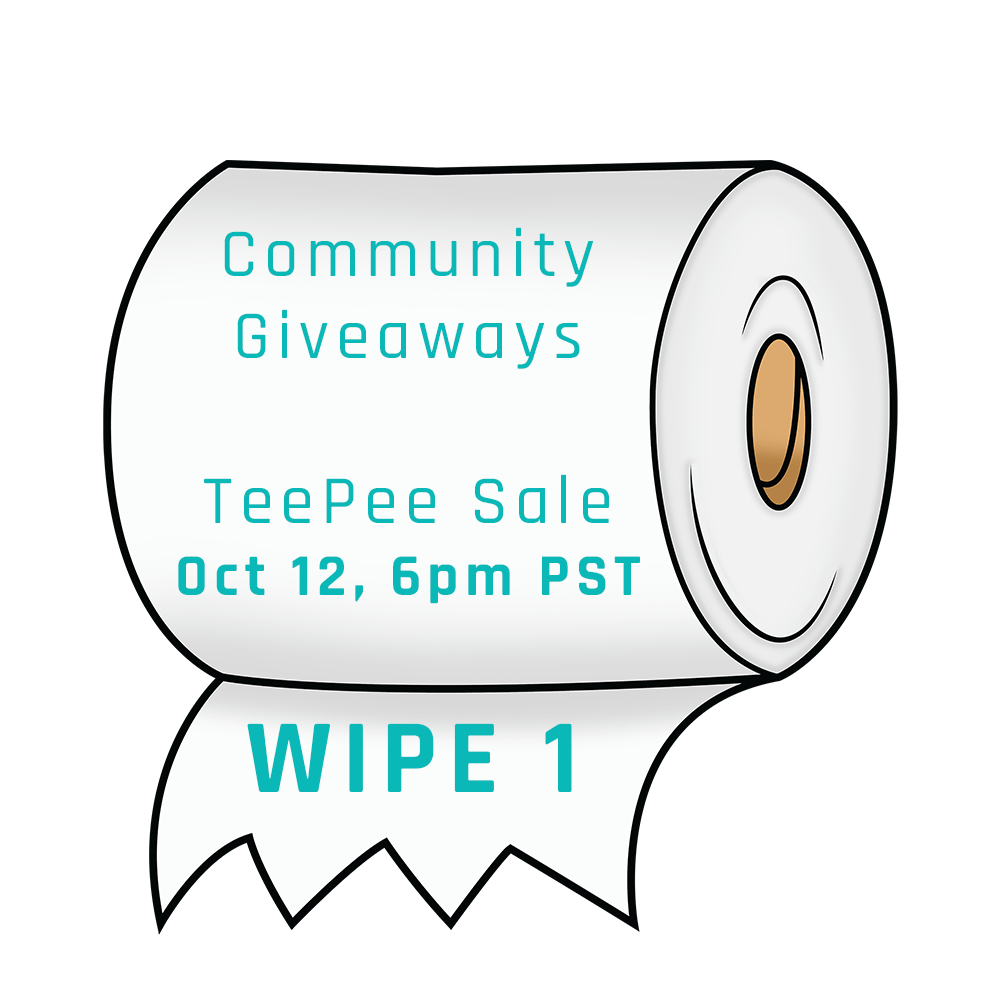
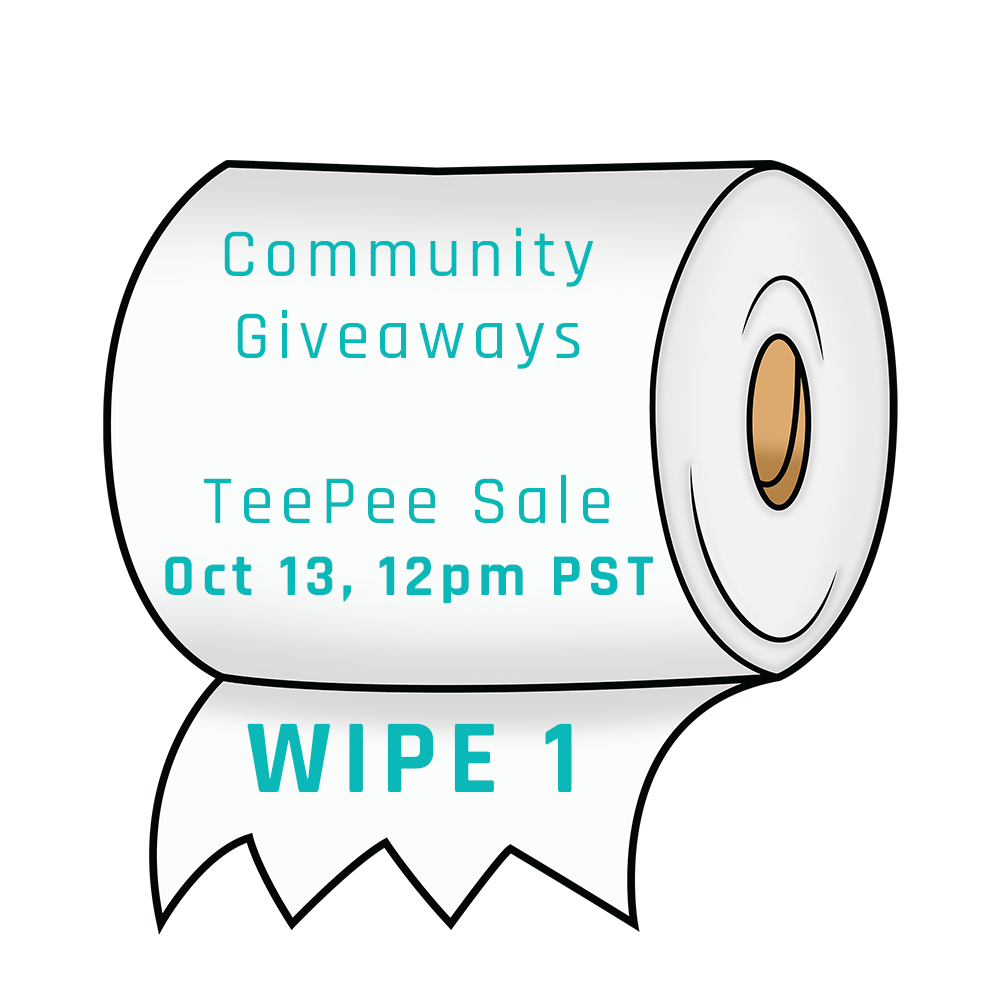
added launch warning

Changed region(s): [[0.155, 0.558, 0.651, 0.62]]

diff --git a/src/components/Mint/index.tsx b/src/components/Mint/index.tsx
@@ -96,10 +96,10 @@ const Mint = () => {
 
   // Mint Function
   const onMint = async () => {
-    // if (Date.now() < utcLaunch) {
-    //   alert("NFTeePees hasn't launched yet!");
-    //   return;
-    // }
+    if (Date.now() < utcLaunch) {
+      alert("NFTeePees hasn't launched yet!");
+      return;
+    }
 
     if (minted >= 10) {
       alert("You can only mint 10 TeePees per Address");
